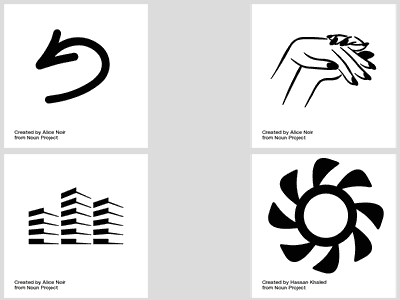
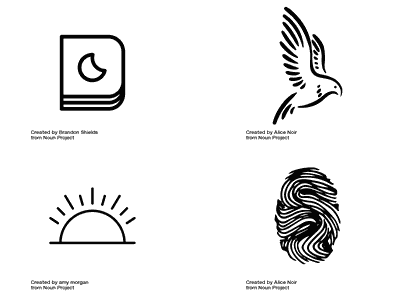
better spacing/borders

diff --git a/glyphe.py b/glyphe.py
@@ -4,24 +4,23 @@ dir = '/home/pi/src/glyphe/'
 
 import os, random
 from PIL import Image
-icons = random.sample(os.listdir(dir + 'icons/'), 4),
-
+icons = random.sample(os.listdir(dir + 'icons/'), 4)
 
 total_width = 1947 # to make this 400/300 on resize
 total_height = 1460 # 2 * 700 + 60
 
-new_image = Image.new('RGBA', (total_width, total_height), (220, 220, 220))
+new_image = Image.new('RGBA', (total_width, total_height), (255, 255, 255))
 
-offset = (20, 20)
-new_image.paste( Image.open(dir + 'icons/' + icons[0]), offset )
+offset = (100, 20)
+new_image.paste( Image.open(dir + 'icons/' + str(icons[0])), offset )
 
-offset = ( int(new_image.width / 2) + 253, 20 )
+offset = ( new_image.width - 800, 20 )
 new_image.paste( Image.open(dir + 'icons/' + icons[1]), offset )
 
-offset = (20, int(new_image.height / 2) + 20)
+offset = (100, int(new_image.height / 2) + 20)
 new_image.paste( Image.open(dir + 'icons/' + icons[2]), offset )
 
-offset = ( int(new_image.width / 2) + 253, int(new_image.height / 2) + 20 )
+offset = ( new_image.width - 800, int(new_image.height / 2) + 20 )
 new_image.paste( Image.open(dir + 'icons/' + icons[3]), offset )
 
 new_image.convert('P')
